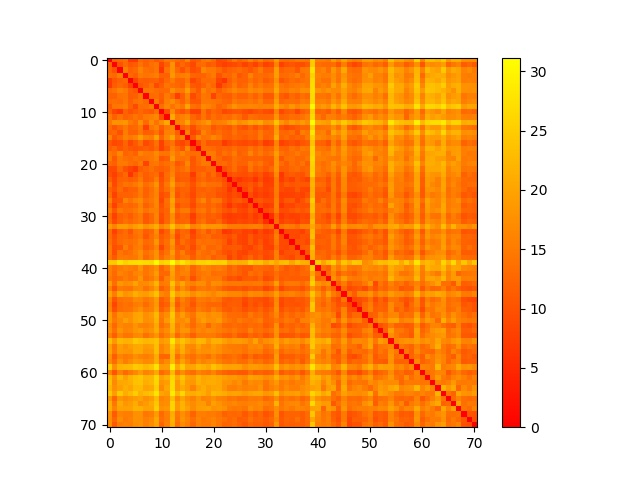
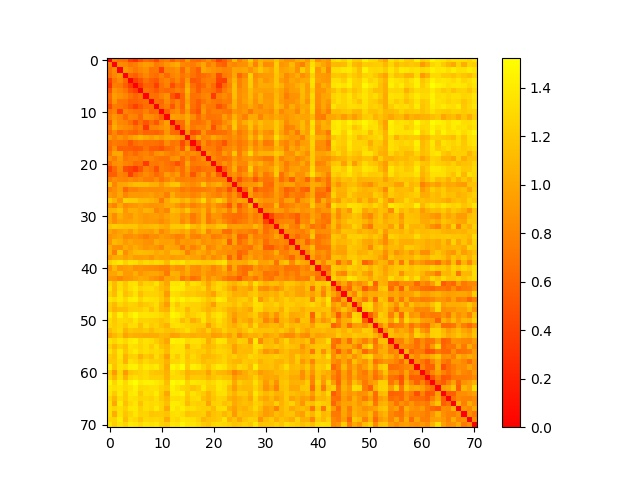
popravljena greska

diff --git a/clustering_alg.py b/clustering_alg.py
@@ -4,30 +4,30 @@ import random
 def init_centroids(data,k):
     i = list(range(0,data.shape[0]))
     random.shuffle(i)
-    centroids = np.array([])
+    centroids  = []
     for p in range(0,k):
-        centroids = np.append(centroids,data[i[p]])
-    return centroids
+        centroids.append(data[i[p]])
+    return np.array(centroids,dtype=float)
 
 def cluster_init(data,k,centorids,distance):
-    clusters = np.array([])
+    clusters = []
+    centorids = np.array(centorids,dtype=float)
     for i in range(0,data.shape[0]):
         min_distance = 5000000.0
-        k=50000000.0
+        k=0
         
         for j in range(0,centorids.shape[0]):
             dist = distance(data[i,:],centorids[j])
-            print(dist)
             if(min_distance > dist) :
                 k =j+1
                 min_distance = dist
                
-        cluster = np.append(clusters,k)        
+        clusters.append(k)        
 
-    return clusters
+    return np.array(clusters, dtype=float)
 
 def new_centroid_cal(data,clusters,k):
-    cenroids = np.array([])
+    cenroids = []
     for i in range(1,k+1):
         cenroid = np.zeros(data[0,:].shape)
         counter = 0
@@ -44,10 +44,7 @@ def new_centroid_cal(data,clusters,k):
 
 def k_means(data, k, dist_func):
     centroids = init_centroids(data,k)
-    print(centroids)
-
     clusters = cluster_init(data,k,centroids,dist_func)
-    print(clusters)
     stop = True
     while(stop):
         new_centroid = new_centroid_cal(data,clusters,k)

diff --git a/calcSiCHAffy.py b/calcSiCHAffy.py
@@ -3,7 +3,7 @@ from scipy.spatial.distance import braycurtis,canberra,correlation
 from scipy.stats import wasserstein_distance, energy_distance,cosine
 from support_functions import distance_matrix,normalise_data,distance_matrix_np
 from PIL import Image
-from distances import hellinger,cosine_distance,dist_kulczynski, jack_knife,eucl_distance
+from distances import hellinger,cosine_distance,dist_kulczynski, jack_knife
 from matplotlib import pyplot as plt
 import numpy as np
 
@@ -74,7 +74,7 @@ def calcSiCHAffy(data,label,name):
     plt.savefig('Affy/distance_map/'+name[0:len(name)-4] +'_kulczynski.jpg')
     plt.close()
 
-    dist_eucl= distance_matrix(data,eucl_distance)
+    dist_eucl= distance_matrix(data,np.linalg.norm)
     silhouette_eucl = metrics.silhouette_score(dist_eucl,label,metric='precomputed')
     plt.imshow(dist_eucl,cmap='autumn')
     plt.colorbar()
@@ -93,5 +93,5 @@ def calcSiCHAffy(data,label,name):
     CH = metrics.calinski_harabaz_score(data,label)
     DB = metrics.davies_bouldin_score(data,label)
     return [name,silhouette_score_cosine,silhouette_score_braycurtis, silhouette_score_canberra,silhouette_score_correlation,
-    silhouette_score_hellinger,silhouette_score_wasserstein,silhouette_energy_distance,silhouette_kulczynski,CH,DB]
+    silhouette_score_hellinger,silhouette_score_wasserstein,silhouette_energy_distance,silhouette_kulczynski,silhouette_eucl,CH,DB]
     

diff --git a/zadatak1.py b/zadatak1.py
@@ -25,10 +25,11 @@ for i in range(0,len(data_file_names)):
     path_data_tmp = path_data + data_file_names[i]
     data = pd.read_csv(path_data_tmp, delimiter=' ')
     label = pd.read_csv(path_label+ label_file_names[i], delimiter=' ')
-    label = np.array(label)
     ari = ari_scores_normed(np.array(data,dtype=float),label)
+    label = np.array(label)
+    
     print(ari)
-    scores.append(calcSiCHAffy(data,np.ravel(label),data_file_names[i]))
+ #   scores.append(calcSiCHAffy(data,np.ravel(label),data_file_names[i]))
 print('\n')
 print(scores)
 

diff --git a/ari_scores_normed.py b/ari_scores_normed.py
@@ -24,8 +24,9 @@ def ari_scores_normed(data,labels):
    # dist_eucl= distance_matrix(data,eucl_distance)
 
   #  cosine_labels = iterate_k_means(data,,300,cosine_distance)
-    cosine_label = k_means(data, np.max(np.unique(labels))-1, correlation)
-    ari_cosine = metrics.adjusted_rand_score(labels,cosine_labels)
+   # labels = np.transpose(labels)
+    cosine_label = k_means(data, np.max(np.unique(labels)), correlation)
+    ari_cosine = metrics.adjusted_rand_score(np.reshape(labels,(labels.shape[0],)),cosine_label)
 
     return ari_cosine
 

diff --git a/distances.py b/distances.py
@@ -8,8 +8,6 @@ from scipy.stats import wasserstein_distance
 def cosine_distance(p,q):
     return  1- dot(p, q)/(norm(p)*norm(q))
 
-def eucl_distance(p,q):
-    return  math.sqrt(math.pow((p-q),2))
 
 
 def hellinger(p, q):
